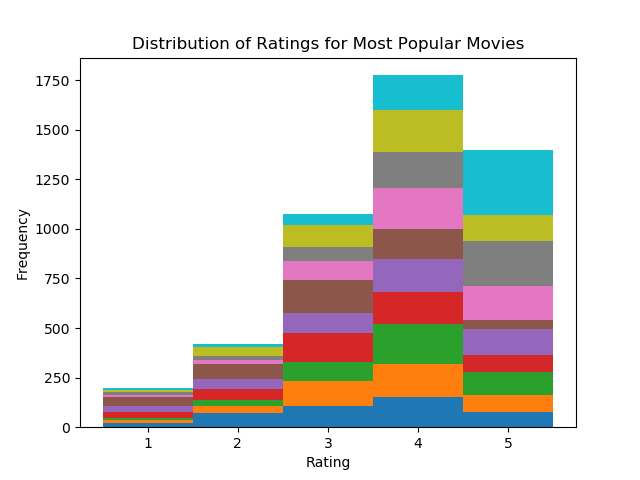
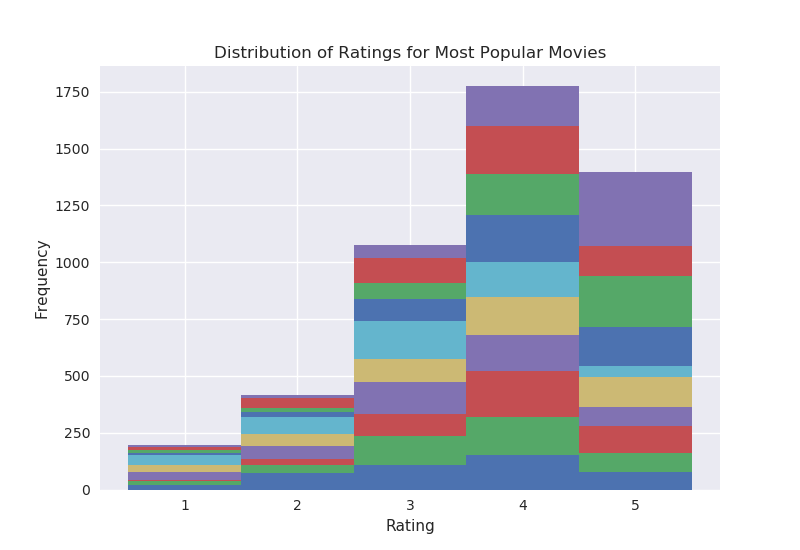
Added remaining visualizations

diff --git a/visualizations.py b/visualizations.py
@@ -1,10 +1,13 @@
 import matplotlib.pyplot as plt
 import numpy as np
+import pandas as pd
 import pickle
+import seaborn as sns
 
 with open('data/movie_info.pickle', 'rb') as handle:
     movieInfo = pickle.load(handle)
 
+every = range(len(movieInfo))
 random = [0, 120, 255, 49, 21, 1479, 1469, 1, 1273, 448]
 popular = np.argsort([len(movie['ratings']) for movie in movieInfo])[-10:]
 best = np.argsort([np.mean(movie['ratings']) for movie in movieInfo])[-10:]
@@ -12,6 +15,33 @@ dramas = [i for i, m in enumerate(movieInfo) if "Drama" in m["genre"]]
 horrors = [i for i, m in enumerate(movieInfo) if "Horror" in m["genre"]]
 actions = [i for i, m in enumerate(movieInfo) if "Action" in m["genre"]]
 
+def makeHistogram(movies, filename, title, aggregate=True):
+    ratings = []
+    titles = []
+    for i in movies:
+        for rating in movieInfo[i]["ratings"]:
+            ratings.append(rating)
+            titles.append(movieInfo[i]["title"])
+
+    data = {'ratings' : ratings, 'titles' : titles}
+
+    fig, ax = plt.subplots()
+
+    if aggregate:
+        ax = sns.countplot(data=data, x='ratings')
+        ax.set_xlabel("Rating")
+    else:
+        ax = sns.countplot(data=data, x='titles', hue='ratings')
+        ax.set_xticklabels(ax.get_xticklabels(), rotation=90)
+        ax.set_xlabel("Movie Title")
+
+    ax.set_ylabel("Frequency")
+    ax.set_title("Distribution of Ratings for " + title)
+
+    fig.tight_layout()
+
+    plt.savefig("img/histogram_" + filename)
+    plt.clf()
 
 def makeScatterPlot(movies, filename, title):
     x = [movieInfo[i]["coords"][0] for i in movies]
@@ -25,28 +55,27 @@ def makeScatterPlot(movies, filename, title):
     ax.scatter(x, y)
     for i, j in enumerate(movies):
         ax.annotate(movieInfo[j]["title"], (x[i] + 0.015, y[i] - 0.015))
-    fig.savefig("img/" + filename)
+    fig.savefig("img/scatter_" + filename)
     fig.clf()
 
 def part1():
-    pass
+    makeHistogram(every, "all.png", "All Movies")
+    makeHistogram(dramas, "drama.png", "Drama Movies")
+    makeHistogram(horrors, "horror.png", "Horror Movies")
+    makeHistogram(actions, "action.png", "Action Movies")
+    makeHistogram(popular, "popular.png", "10 Most Popular Movies", aggregate=False)
+    makeHistogram(best, "best.png", "10 Highest Rated Movies", aggregate=False)
 
 def part2():
-    makeScatterPlot(random, "random_scatter.png", "10 Random Movies")
-    makeScatterPlot(popular, "popular_scatter.png", "10 Most Popular Movies")
-    makeScatterPlot(best, "best_scatter.png", "10 Highest Rated Movies")
-    makeScatterPlot(dramas[:10], "drama_scatter.png", "10 Drama Movies")
-    makeScatterPlot(horrors[:10], "horror_scatter.png", "10 Horror Movies")
-    makeScatterPlot(actions[:10], "action_scatter.png", "10 Action Movies")
+    makeScatterPlot(random, "random.png", "10 Random Movies")
+    makeScatterPlot(popular, "popular.png", "10 Most Popular Movies")
+    makeScatterPlot(best, "best.png", "10 Highest Rated Movies")
+    makeScatterPlot(dramas[:10], "drama.png", "10 Drama Movies")
+    makeScatterPlot(horrors[:10], "horror.png", "10 Horror Movies")
+    makeScatterPlot(actions[:10], "action.png", "10 Action Movies")
 
-def freqAll():
-    n, bins, patches = plt.hist(ratings, bins=[1,2,3,4,5,6], align='left')
-    plt.title("Distribution of Ratings")
-    plt.xlabel("Rating")
-    plt.ylabel("Frequency")
-    plt.savefig('ratingsFreq.png')
-    plt.clf()
-
+def old():
+    # I moved all the old code here
     labels = ['1', '2', '3', '4', '5']
     colors = ['gold', 'yellowgreen', 'lightcoral', 'lightskyblue', '#cc99ff']
     explode = (0, 0, 0, 0, 0)
@@ -56,7 +85,6 @@ def freqAll():
     plt.savefig('ratingsPie.png')
     plt.clf()
 
-def freqPopular():
     numRatings = []
     for movie in popular:
         numRatings.append(movieInfo[movie]['ratings'])
@@ -68,12 +96,9 @@ def freqPopular():
     plt.savefig('popularFreq.png')
     plt.clf()
 
-def freqBest():
     print("BEST RATED")
     for movie in best:
         print(movieInfo[movie]['title'], np.mean(movieInfo[movie]['ratings']), len(movieInfo[movie]['ratings']))
 
-freqPopular()
-freqBest()
-
-part1() and part2()
+part1()
+part2()
